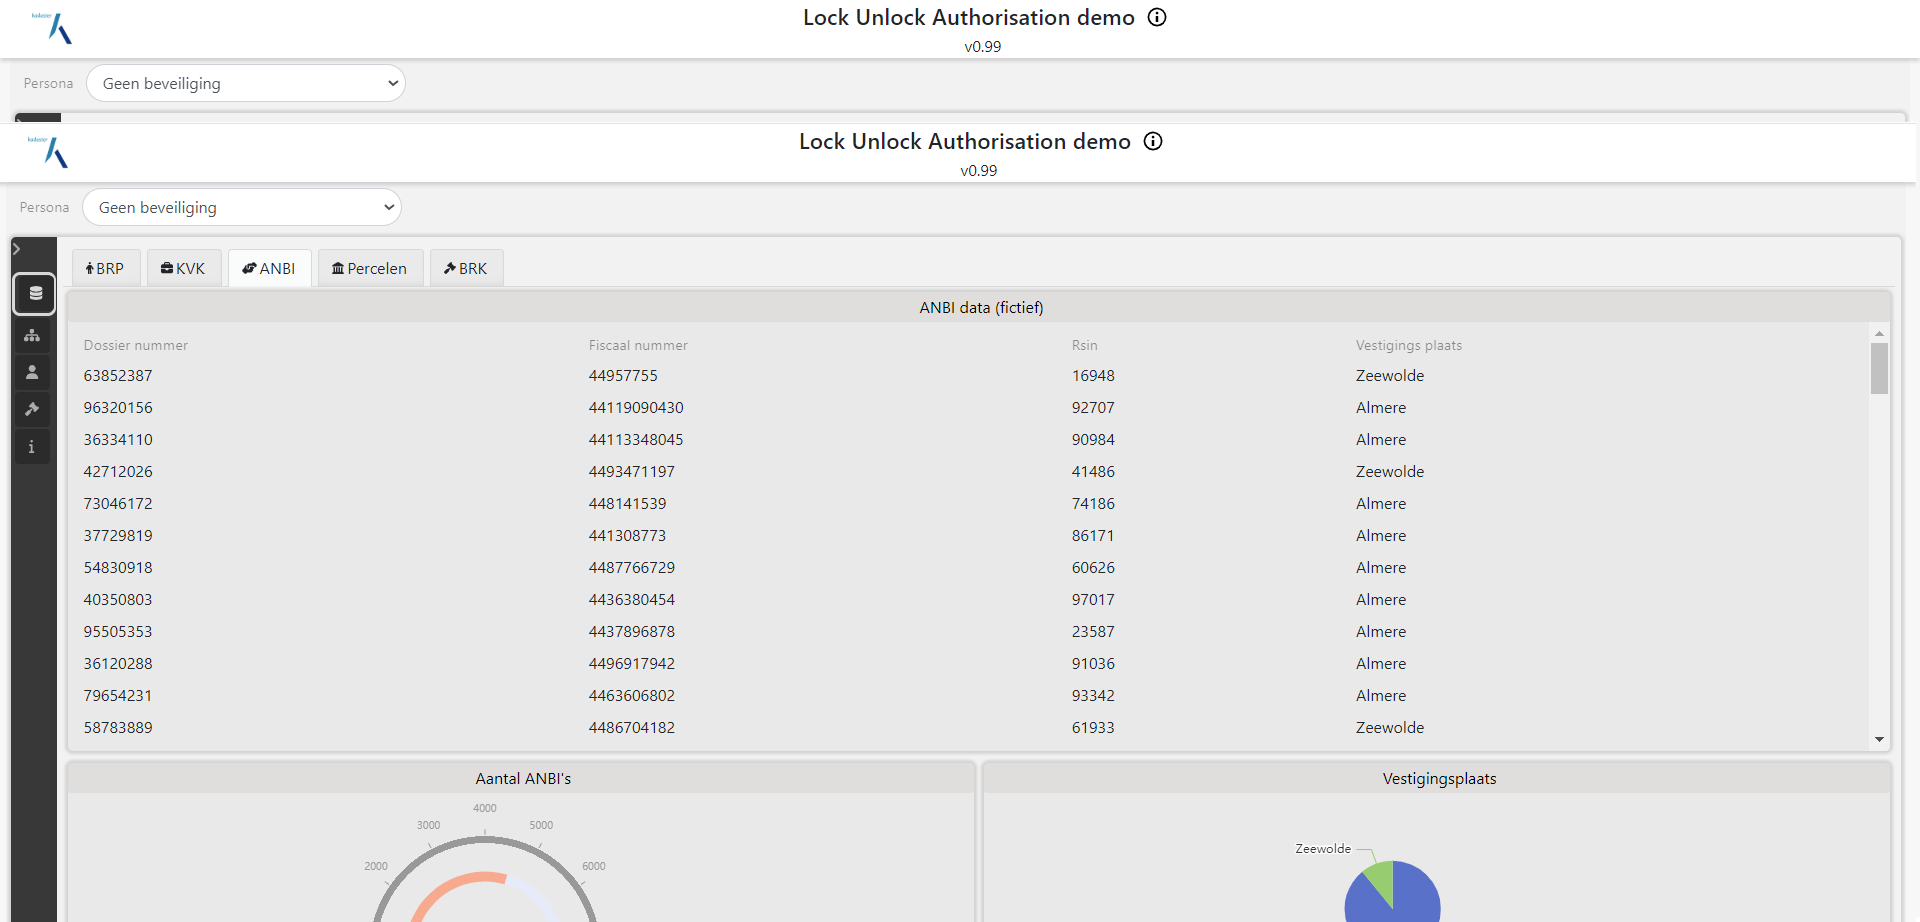
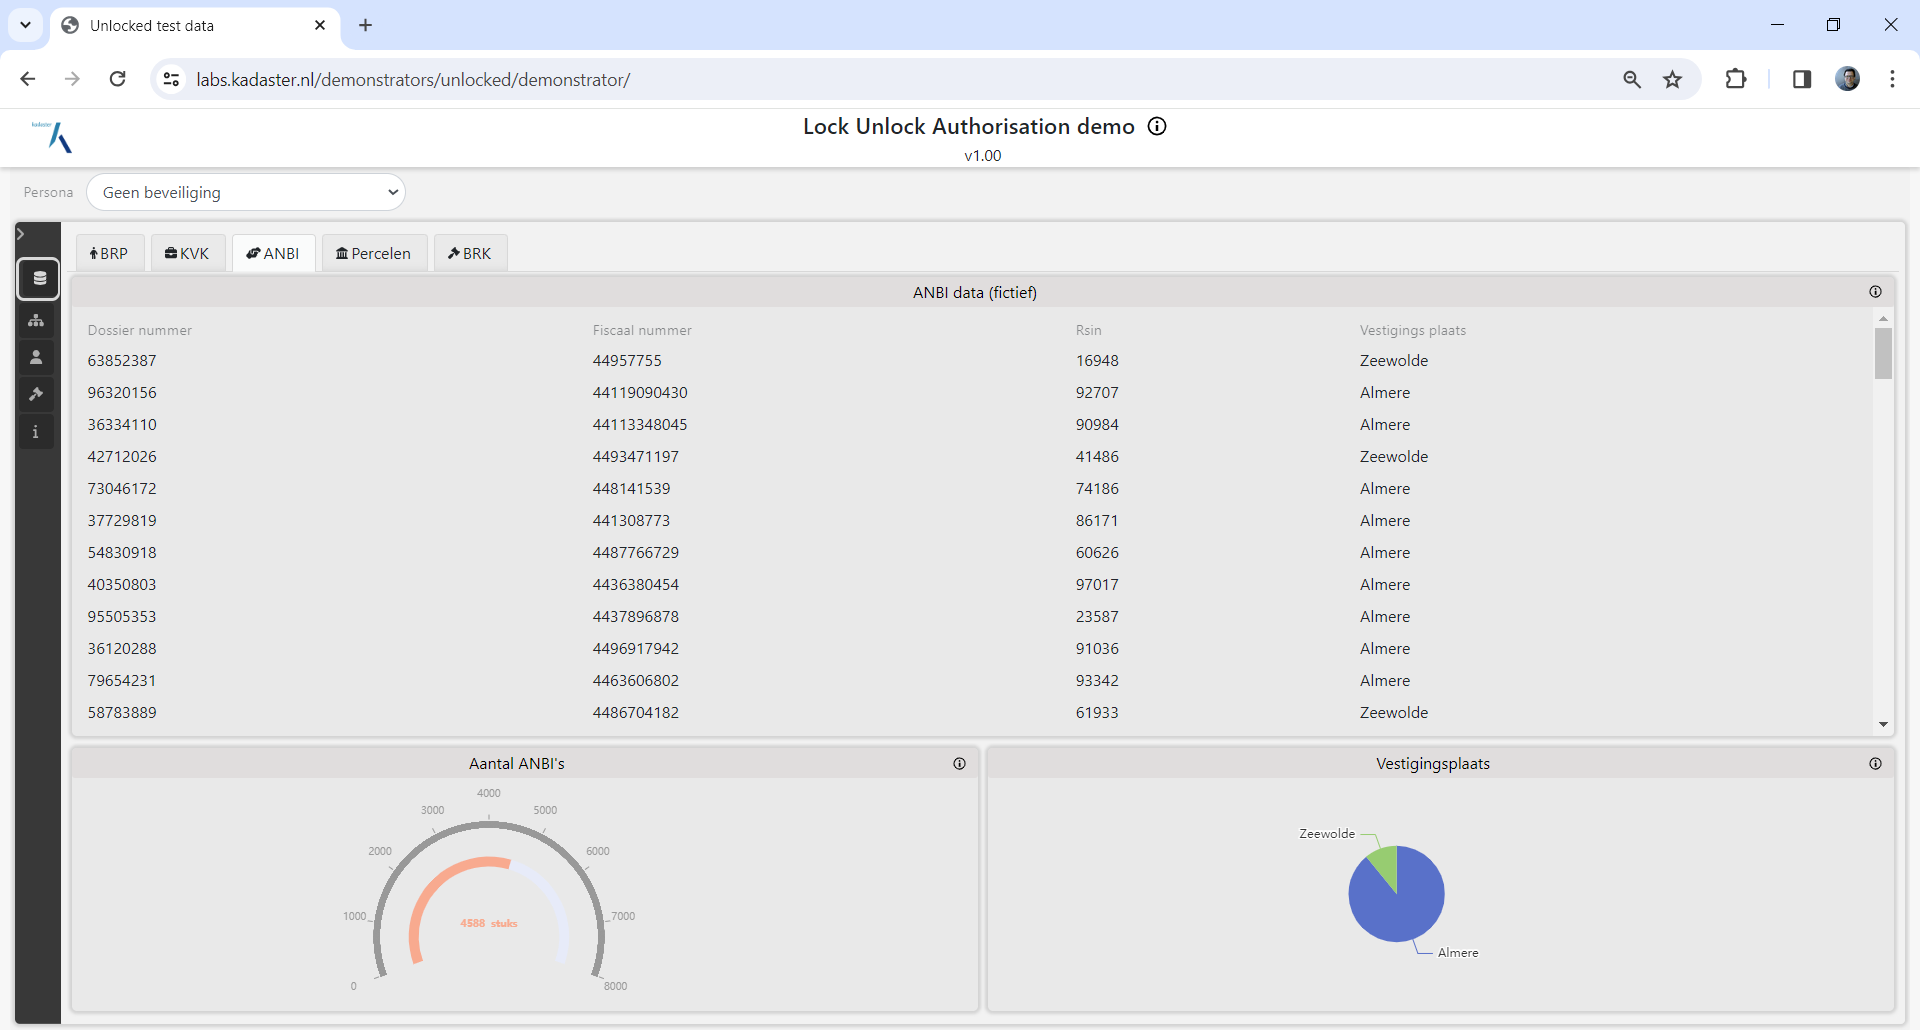
kleine update FDS demonstrator

diff --git a/docs/federatieve-bevraging/demonstrator.md b/docs/federatieve-bevraging/demonstrator.md
@@ -46,13 +46,21 @@ met daarin de percelen op de kaart. Deze informatie is afkomstig van IMX-Geo.
 
 ![linked data in context](images/BRK-Data.png)
 
-In het gesloten gedeelte van de BRK staat de fictieve eigendomsinformatie. Hierin staat wie de eigenaar/eigenaren is/zijn van een perceel. Ook staan hierin de koopsommen van de percelen.
+In het gesloten gedeelte van de BRK staat de fictieve eigendomsinformatie. Hierin staat wie de eigenaar/eigenaren is/zijn van een perceel. Voor de percelen van Zeewolde en Almere is hiervoor dan ook data gegenereerd. Dit resulteert in een dataset met meer dan 100k personen (prive en rechtspersonen). Ook staan hierin de koopsommen van de percelen. Hieronder een screenshot van de eigendom gegevens.
+
+![BRK data](images/BRK-DataV2.png)
 
 
 ## Federatieve bevraging
 
-Door deze silo's te combineren en integraal te bevragen kunnen er vragen beantwoord worden zoals: wat is de geboorteplaats van de eigenaar van perceel X of is het perceel in eigendom van een ANBI. Hieronder is een voorbeeld waarbij alle koopsommen zichtbaar zijn van percelen uit de BRK en waarbij eigendoms informatie aanwezig is van een geselecteerd perceel. In elke widget (tabel of grafiek) staat bij welke bronnen geraadpleegd zijn. Zo wordt er NHR informatie opgezocht in de NHR zoals stichtingsjaar en RSIN nummer voor NHR inschrijvingen die eigenaar zijn van het geselecteerde perceel. Ook de BRP wordt geraadpleegd om extra persoons informatie op te halen van een Perceels eigenaar. 
+Door deze silo's te combineren en integraal te bevragen kunnen er vragen beantwoord worden zoals: wat is de geboorteplaats van de eigenaar van perceel X of is het perceel in eigendom van een ANBI. Hieronder is een voorbeeld waarbij alle koopsommen zichtbaar zijn van percelen uit de BRK en waarbij eigendoms informatie aanwezig is van een geselecteerd perceel. 
 
-![linked data in context](images/FDS-Data.png)
+![FDS](images/FDS-DataV2.png) 
+
+In elke widget (tabel of grafiek) staat bij welke bronnen geraadpleegd zijn. Zo wordt er NHR informatie opgezocht in de NHR zoals stichtingsjaar en RSIN nummer voor NHR inschrijvingen die eigenaar zijn van het geselecteerde perceel. Ook de BRP wordt geraadpleegd om extra persoons informatie op te halen van een Perceels eigenaar. 
+
+![FDS](images/FDS-Data.png)
+
+Deze demonstrator is [hier](https://labs.kadaster.nl/demonstrators/unlocked/demonstrator) te vinden. 
 
 
